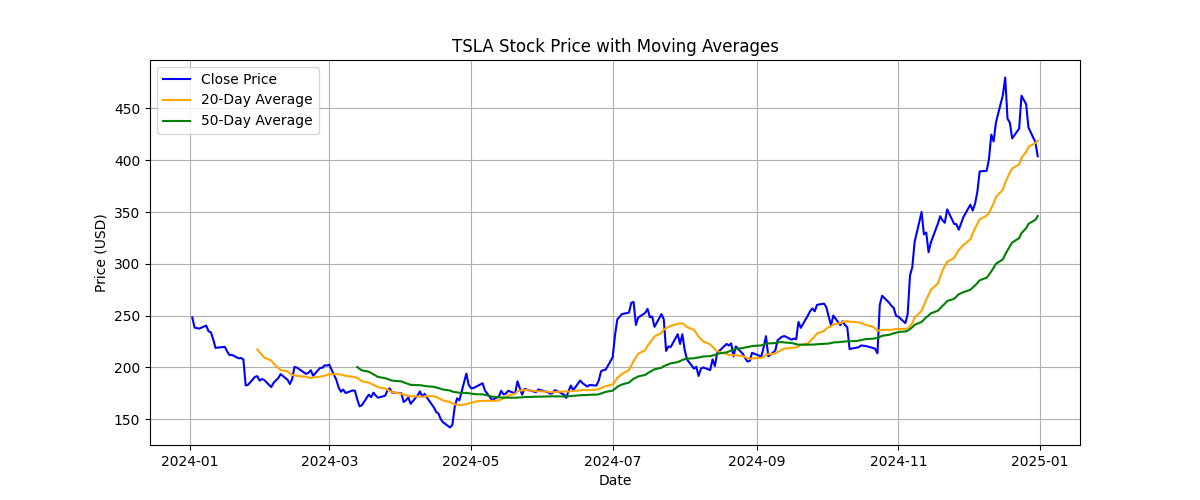
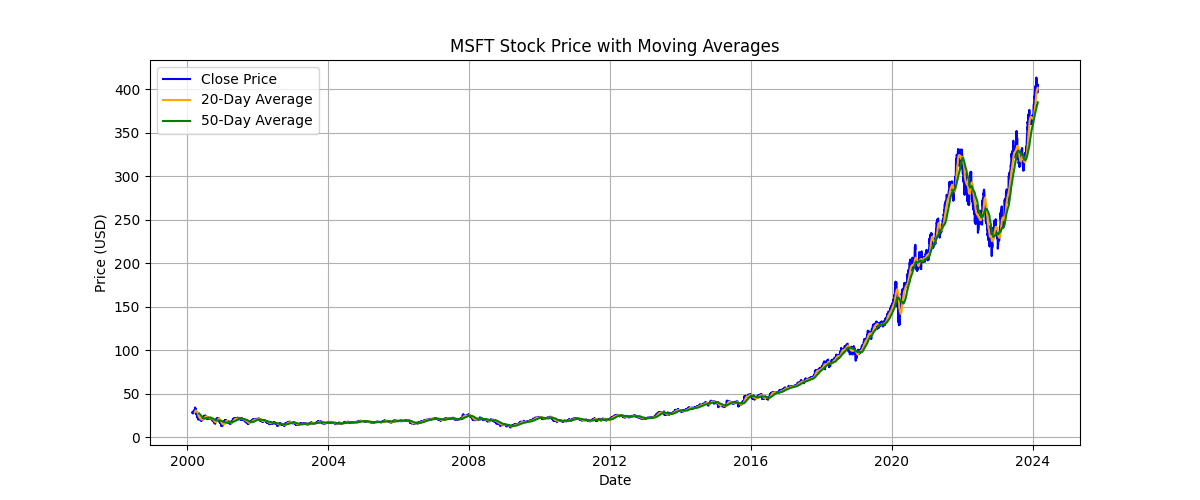
Add user input for ticker and dates

diff --git a/test.py b/test.py
@@ -1,10 +1,11 @@
+
 import yfinance as yf
 import matplotlib.pyplot as plt
 
 # Settings - change these to whatever you want!
-ticker = "APPL"
-start_date = "2024-01-01"
-end_date = "2025-01-01"
+ticker = input("Enter ticker symbol (e.g. AAPL, TSLA, MSFT): ").upper()
+start_date = input("Enter start date (YYYY-MM-DD): ")
+end_date = input("Enter end date (YYYY-MM-DD): ")
 
 # Download stock data
 data = yf.download(ticker, start=start_date, end=end_date)
@@ -26,3 +27,4 @@ plt.legend()
 plt.grid(True)
 plt.savefig("apple_chart.png")
 print("Chart saved!")
+